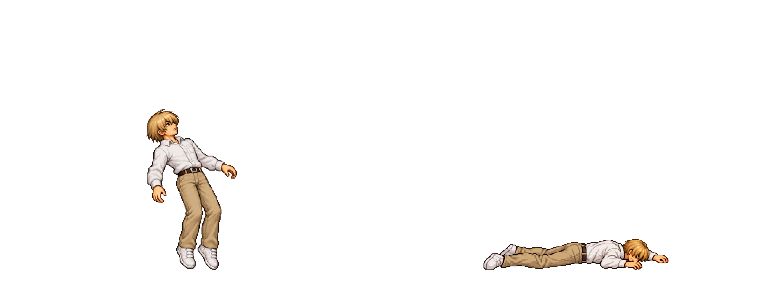
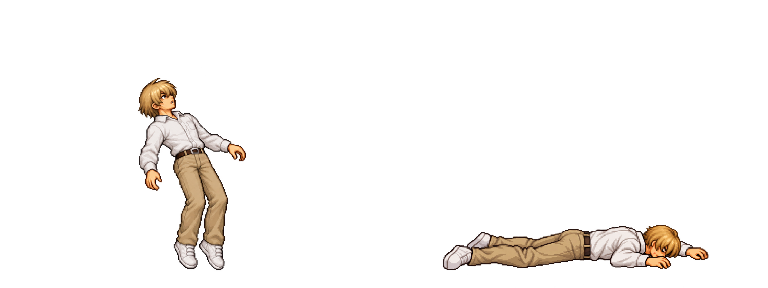
Sync Gou rotation with landing and preserve received body size

Changed region(s): [[0.1562, 0.25, 0.3438, 0.9375], [0.5625, 0.7812, 0.9375, 0.9375]]

diff --git a/tools/build_gou_reversal.py b/tools/build_gou_reversal.py
@@ -28,12 +28,12 @@ def pack(source_folder, destination, reference, names, clips, calibration=1.0, a
     density = (rb[3]-rb[1]) / ((initial[3]-initial[1])*calibration)*density_adjustment
     pose_densities = [density]*len(poses)
     if normalize_prone:
-        # The independently drawn prone original has a different source resolution.
-        # Match its anatomical head-to-feet span to the upright body's height,
-        # allowing 15% for extended hands. Never stretch a low pose to idle height.
+        # Compare visible body mass, not pose height/width: lying down overlaps
+        # limbs but must not turn into a miniature character at landing.
         prone_index = names.index("down")
-        prone = poses[prone_index][1]
-        pose_densities[prone_index] *= (initial[3]-initial[1])*1.15/(prone[2]-prone[0])
+        def opaque_area(image):
+            return sum(value >= 128 for value in image.getchannel('A').get_flattened_data())
+        pose_densities[prone_index] = density * (0.85*opaque_area(poses[0][0])/opaque_area(poses[prone_index][0]))**0.5
     if 'tuck' in names:
         tuck_index = names.index('tuck')
         tuck = poses[tuck_index][1]
@@ -86,7 +86,7 @@ path = pack(ROOT/'art_sources/gou_reversal_v1',GODOT/'assets/characters/player02
 attach(GODOT/'data/fighters/ally_power.tres',path,'gou_reversal')
 path = pack(ROOT/'art_sources/gou_received_v2/enemy_01_standard',GODOT/'assets/characters/special_received_gou_v1/enemy_01_standard',
     REFS/'crusher.png',['hit','down'],
-    {'received_gou_breaker_hit':([0],8),'received_gou_breaker_air':([0],60),'received_gou_breaker_down':([1],5)},1.12,density_adjustment=0.94,normalize_prone=True)
+    {'received_gou_breaker_hit':([0],8),'received_gou_breaker_air':([0],60),'received_gou_breaker_down':([1],5)},1.0,density_adjustment=1.0,normalize_prone=True)
 fighter = GODOT/'data/enemies/enemy_01_standard.tres'
 attach(fighter,path,'received_gou')
 text = fighter.read_text(encoding='utf-8')
@@ -109,7 +109,7 @@ if reference_manifest.exists():
             raise FileNotFoundError(f'Missing dedicated Gou reactions: {name}')
         path = pack(source,GODOT/'assets/characters/special_received_gou_v1'/name,
             Path(ref['reference']),['hit','down'],
-            {'received_gou_breaker_hit':([0],8),'received_gou_breaker_air':([0],60),'received_gou_breaker_down':([1],5)},1.12,density_adjustment=0.94,normalize_prone=True)
+            {'received_gou_breaker_hit':([0],8),'received_gou_breaker_air':([0],60),'received_gou_breaker_down':([1],5)},1.0,density_adjustment=1.0,normalize_prone=True)
         fighter = GODOT/ref['fighter']
         attach(fighter,path,'received_gou')
         text = fighter.read_text(encoding='utf-8')

diff --git a/tools/build_special_reaction_reviews.py b/tools/build_special_reaction_reviews.py
@@ -5,7 +5,7 @@ ROOT=Path(__file__).resolve().parents[1]
 NAMES=['enemy_01_standard','enemy_02_speed','enemy_03_guard','enemy_04_throw','enemy_05_power',
        'enemy_06_combo','enemy_07_tricky','enemy_08_boss','enemy_09_seiya']
 for folder,phases in [('akky_wall_launch_final',['air','wall','fall','down']),
-                     ('gou_low_arched_270_final',['impact','air','prone_descent','down'])]:
+                     ('gou_rotation_landing_sync',['impact','air','spin','prone_landing'])]:
     out=ROOT/'evidence'/folder
     if not all((out/f"{name}_R_{phase}.png").exists() for name in NAMES for phase in phases): continue
     sheet=Image.new('RGB',(1280,len(NAMES)*202),(25,25,30))

diff --git a/docs/GOU_LOW_ARCHED_270_FINAL.md b/docs/GOU_LOW_ARCHED_270_FINAL.md
@@ -1,11 +1,9 @@
-# ゴウ最終被弾: 低い高さ・上体反り・後方270度
+# ゴウ最終被弾: 低い高さ・上体反り・回転と着地を同期
 
-2026-10-02。最新指定に合わせて膝引き寄せを除去し、上体を反らして膝を軽く曲げた開始原画を回転中ずっと使用。頭から後方270度へ回し、頭をゴウ側にしてうつぶせに倒れる。不要になった膝引き原画は制作履歴として保管し、runtimeから除いた。
+2026-10-02。膝を引き寄せず、上体を反らして膝を軽く曲げた姿勢のまま後方270度回転。頭をゴウ側にしてうつぶせに倒れる。最新指定により、回転後にゆっくり下降する独立フェーズは除去した。回転中に下降し、物理的な床接触のフレームで回転と倒れ姿勢を同時に確定する。
 
-浮き上がりは約25px。ゴウの速度上限を(420,-120)、専用飛行重力を300にし、空中時間約0.8秒と横移動約320pxを維持。通常ダウンの上向き最低速度が再適用される箇所でも、この専用の上限を反映する。通常のジャンプ・投げ・他の必殺技の重力は変更しない。
+浮き上がりは約25px。速度上限(420,-120)、専用飛行重力300で短い横移動約320pxを維持する。通常ジャンプ・投げ・アッキーの重力は変更しない。回転中の後半で原画の胴体位置を倒れ原画へ合わせ、床接触で突然位置が飛ばないようにする。
 
-回転を空中時間の60%で完了し、残り約0.3秒で床へ下降。回転した開始原画の実際の胴体位置と、うつぶせ原画の胴体位置を左右反転・Scale込みで合わせる。描画offsetを滑らかに0へ戻して着地するため、姿勢切替や床接触で体が突然下へ移動しない。Scale/positionとカメラ倍率は固定。ダメージ・ガード・KO・アッキーの画面端への壁衝突は維持。
+サイズ縮小への最新指摘を受け、原画パッキングの1.12倍除算と0.94倍縮小を除去。各敵の通常原画を基準に被弾原画を配置する。倒れ原画は高さで拡大するのでなく、原画の不透明面積を基準に、手足の重なりを考慮した空中姿勢の85%の身体面積に校正する。画面上のスケール、カメラ倍率、描画のピボットは一切変えない。回転中は同じ原画を使うため、途中で別の小さい姿勢に切り替わらない。
 
-全9敵×左右で、回転中に丸まらない、単調270度、浮き上がり30px未満、横距離360px未満、0.25秒超の最後の下降、姿勢切替と着地の胴体位置の連続性、ガード・KOを独立に確認。gou_low_final_check.logはfailures=[]。描画はgou_low_arched_270_final。既存25項目もgou_low_regressions.logで成功し、共通必殺技・アッキーモーション・壁反応の追加チェックも成功。
-
-原画の指定と最終使用状態はart_sources/gou_received_v2/prompt_manifest.json。開始原画はbuilt-in image_genで制作した上体反り姿勢で、今回は原画を増やさず回転と弾道・下降の接続を調整。公開後のWeb確認は別途evidenceへ記録。
+全9敵×左右で、回転中に丸まらない、単調270度、回転完了と床接触の一致、浮き上がり30px未満、短い横移動、姿勢切替と着地の胴体位置の連続性、通常姿勢と空中・倒れ姿勢の不透明面積、一定Scale/カメラ倍率、ガード・KOを確認する。最新描画記録はevidence/gou_rotation_landing_sync。以前のgou_low_arched_270_finalと下降フェーズの記録は過去仕様として保管する。
